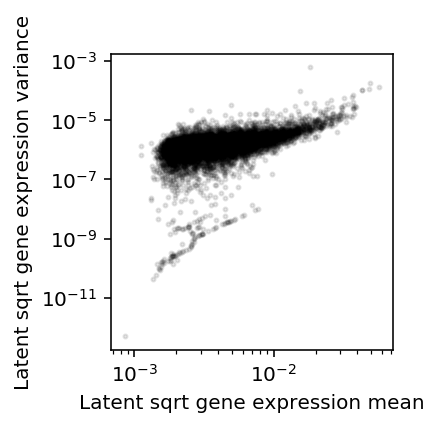
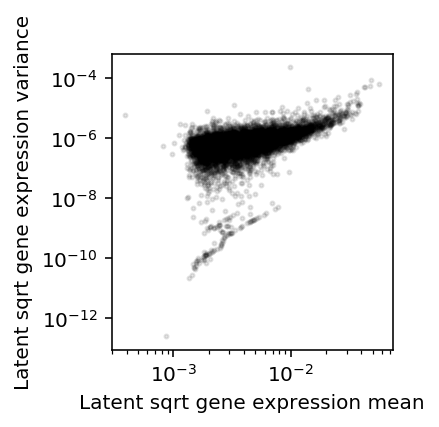
Fix error in Taylor approximations

diff --git a/docs/transforms.html b/docs/transforms.html
@@ -1,7 +1,7 @@
 <!DOCTYPE html>
 <html lang="en">
 <head>
-<!-- 2019-04-29 Mon 18:52 -->
+<!-- 2019-04-30 Tue 14:33 -->
 <meta charset="utf-8">
 <meta name="viewport" content="width=device-width, initial-scale=1">
 <title>Transformations of deconvolved gene expression distributions</title>
@@ -441,11 +441,11 @@ relationship between \(E[\ln(\lambda + \epsilon)]\) and
 </p>
 
 <p>
-\[ E[\ln(x + \epsilon)] \approx \ln(E[x] + \epsilon) - \frac{V[x]}{(E[x] + \epsilon)^2} \]
+\[ E[\ln(x + \epsilon)] \approx \ln(E[x] + \epsilon) - \frac{V[x]}{2 (E[x] + \epsilon)^2} \]
 </p>
 
 <p>
-\[ V[\ln(x + \epsilon)] \approx \frac{2 V[x]}{(E[x] + \epsilon)^2} - \frac{V[x]^2}{(E[x] + \epsilon)^4} \]
+\[ V[\ln(x + \epsilon)] \approx \frac{V[x]}{(E[x] + \epsilon)^2} - \frac{V[x]^2}{(E[x] + \epsilon)^4} \]
 </p>
 
 <p>
@@ -486,8 +486,8 @@ Read the metadata for the iPSCs.
 fig.set_size_inches(7, 3)
 <span class="org-keyword">for</span> a, eps, t <span class="org-keyword">in</span> <span class="org-builtin">zip</span>(ax, np.array([0, 0.5, 1]) / s, [<span class="org-string">'0'</span>, <span class="org-string">'1/(2s)'</span>, <span class="org-string">'1/s'</span>]):
   a.set_yscale(<span class="org-string">'log'</span>)
-  <span class="org-variable-name">m</span> = np.log(mean[<span class="org-string">'NA18507'</span>] + eps) - variance[<span class="org-string">'NA18507'</span>] / np.square(mean[<span class="org-string">'NA18507'</span>] + eps)
-  <span class="org-variable-name">v</span> = (2 * variance[<span class="org-string">'NA18507'</span>]) / np.square(mean[<span class="org-string">'NA18507'</span>] + eps) + np.square(variance[<span class="org-string">'NA18507'</span>]) / (mean[<span class="org-string">'NA18507'</span>] + eps) ** 4
+  <span class="org-variable-name">m</span> = np.log(mean[<span class="org-string">'NA18507'</span>] + eps) - variance[<span class="org-string">'NA18507'</span>] / (2 * np.square(mean[<span class="org-string">'NA18507'</span>] + eps))
+  <span class="org-variable-name">v</span> = variance[<span class="org-string">'NA18507'</span>] / np.square(mean[<span class="org-string">'NA18507'</span>] + eps) - np.square(variance[<span class="org-string">'NA18507'</span>]) / (4 * (mean[<span class="org-string">'NA18507'</span>] + eps) ** 4)
   a.scatter(m, v, c=<span class="org-string">'k'</span>, s=4, alpha=0.1)
   a.set_title(f<span class="org-string">'$\epsilon = {t}$'</span>)
 ax[1].set_xlabel(<span class="org-string">'Latent log gene expression mean'</span>)
@@ -513,13 +513,12 @@ fig.set_size_inches(7, 3)
 <span class="org-keyword">for</span> a, eps, t <span class="org-keyword">in</span> <span class="org-builtin">zip</span>(ax, np.array([0, 0.5, 1]) / s, [<span class="org-string">'0'</span>, <span class="org-string">'1/(2s)'</span>, <span class="org-string">'1/s'</span>]):
   a.set_yscale(<span class="org-string">'log'</span>)
   a.set_xlim(-8, -6)
-  a.set_ylim(1e-2, 10)
-  a.scatter(np.log(mean[<span class="org-string">'NA18507'</span>] + eps), (2 * variance[<span class="org-string">'NA18507'</span>]) / np.square(mean[<span class="org-string">'NA18507'</span>] + eps), c=<span class="org-string">'k'</span>, s=4, alpha=0.25)
+  a.set_ylim(1e-2, .5)
+  a.scatter(m, v, c=<span class="org-string">'k'</span>, s=4, alpha=0.25)
   a.set_title(f<span class="org-string">'$\epsilon = {t}$'</span>)
 ax[1].set_xlabel(<span class="org-string">'Latent log gene expression mean'</span>)
 ax[0].set_ylabel(<span class="org-string">'Latent log gene expression variance'</span>)
 fig.tight_layout()
-
 </pre>
 </div>
 
@@ -541,11 +540,11 @@ relationship between \(E[\lambda^{1/2}]\) and
 </p>
 
 <p>
-\[ E[x^{1/2}] \approx (E[x])^{1/2} - \frac{V[x]}{4 E[x]^{3/2}} \]
+\[ E[x^{1/2}] \approx (E[x])^{1/2} - \frac{V[x]}{8 E[x]^{3/2}} \]
 </p>
 
 <p>
-\[ V[x^{1/2}] \approx \frac{V[x]}{2 E[x]} - \frac{V[x]^2}{16 E[x]^3} \]
+\[ V[x^{1/2}] \approx \frac{V[x]}{4 E[x]} - \frac{V[x]^2}{64 E[x]^3} \]
 </p>
 
 <div class="org-src-container">
@@ -553,7 +552,9 @@ relationship between \(E[\lambda^{1/2}]\) and
 plt.gcf().set_size_inches(3, 3)
 plt.semilogx()
 plt.semilogy()
-plt.scatter(np.sqrt(mean[<span class="org-string">'NA18507'</span>]), variance[<span class="org-string">'NA18507'</span>] / (2 * mean[<span class="org-string">'NA18507'</span>]), c=<span class="org-string">'k'</span>, s=4, alpha=0.1)
+<span class="org-variable-name">m</span> = np.sqrt(mean[<span class="org-string">'NA18507'</span>]) - variance[<span class="org-string">'NA18507'</span>] / (8 * np.power(mean[<span class="org-string">'NA18507'</span>], 1.5))
+<span class="org-variable-name">v</span> = variance[<span class="org-string">'NA18507'</span>] / (4 * mean[<span class="org-string">'NA18507'</span>]) - np.square(variance[<span class="org-string">'NA18507'</span>]) / (64 * np.power(mean[<span class="org-string">'NA18507'</span>], 3))
+plt.scatter(m, v, c=<span class="org-string">'k'</span>, s=4, alpha=0.1)
 plt.xlabel(<span class="org-string">'Latent sqrt gene expression mean'</span>)
 plt.ylabel(<span class="org-string">'Latent sqrt gene expression variance'</span>)
 plt.gcf().tight_layout()
@@ -628,7 +629,7 @@ fig.tight_layout()
 </div>
 <div id="postamble" class="status">
 <p class="author">Author: Abhishek Sarkar</p>
-<p class="date">Created: 2019-04-29 Mon 18:52</p>
+<p class="date">Created: 2019-04-30 Tue 14:33</p>
 <p class="validation"><a href="http://validator.w3.org/check?uri=referer">Validate</a></p>
 </div>
 </body>
